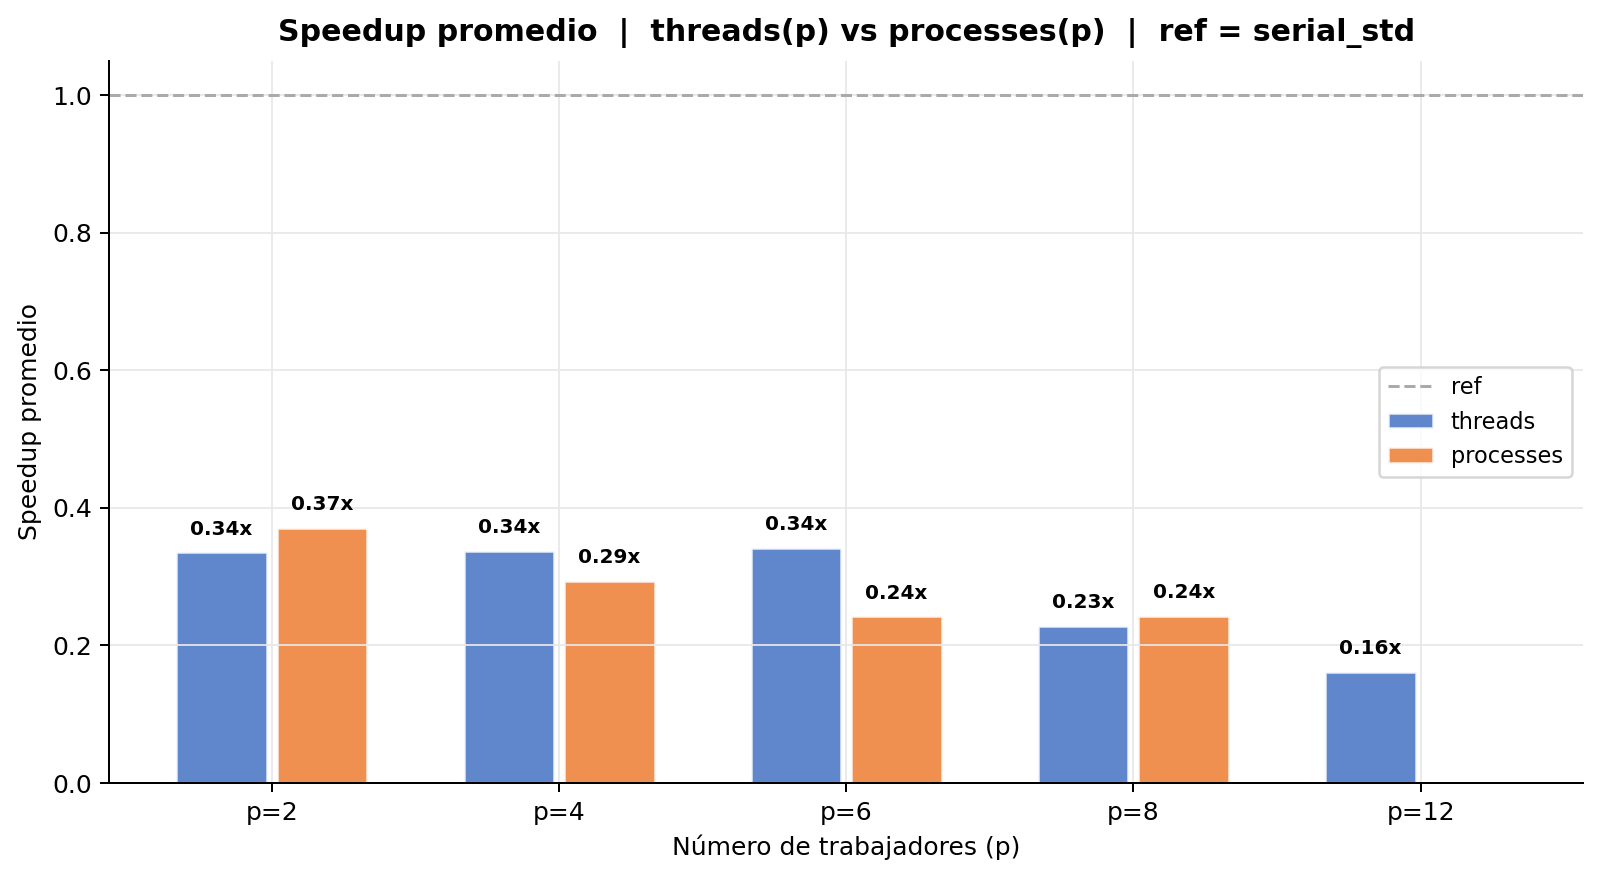
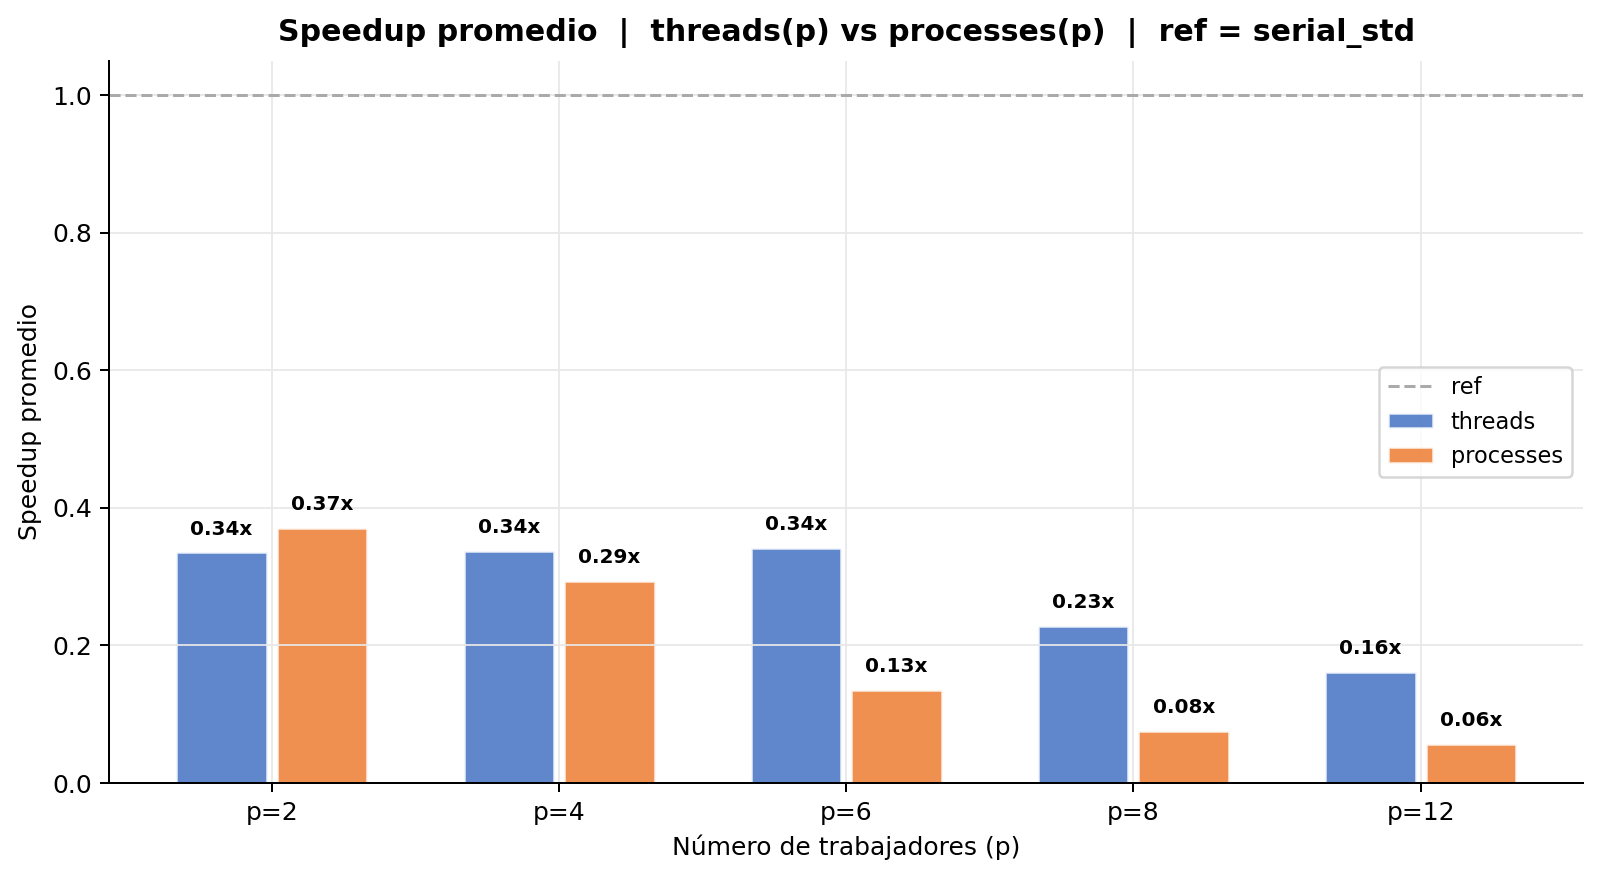
Updated documentation with new results and graphs for sequential, thread-parallelized, and process algorithms.

Changed region(s): [[0.6871, 0.6458, 0.7808, 0.861], [0.5309, 0.6458, 0.5934, 0.7995], [0.8745, 0.7995, 0.9681, 0.8918]]

diff --git a/docs/caps/test/processes.tex b/docs/caps/test/processes.tex
@@ -5,23 +5,58 @@
 
 Para esta implementación se utilizó la biblioteca de procesos POSIX (fork) para crear múltiples procesos que ejecutan el algoritmo de Jacobi en paralelo. Cada proceso se encarga de procesar una parte del arreglo, lo que permite aprovechar la capacidad de procesamiento de múltiples núcleos del CPU. Se realizaron pruebas con diferentes números de procesos (2, 4, 6, 8 y 12) alienados a las pruebas con hilos realizadas para evaluar el impacto en el rendimiento. Estos fueron los resultados obtenidos:
 
-\begin{table}
+\begin{table}[H]
    \centering
-   \includegraphics{images/tables/processes_time.png}
+   \includegraphics[width=1\textwidth]{images/tables/processes2_time.png}
    \caption{Resultados del algoritmo paralelizado por procesos}
-   \label{tab:processes}
+   \label{tab:processes2}
 \end{table}
 
-\begin{table}
+\begin{table}[H]
+   \centering
+   \includegraphics[width=1\textwidth]{images/tables/processes4_time.png}
+   \caption{Resultados del algoritmo paralelizado por procesos}
+   \label{tab:processes4}
+\end{table}
+
+\begin{table}[H]
+   \centering
+   \includegraphics[width=1\textwidth]{images/tables/processes6_time.png}
+   \caption{Resultados del algoritmo paralelizado por procesos}
+   \label{tab:processes6}
+\end{table}
+
+\begin{table}[H]
+   \centering
+   \includegraphics[width=1\textwidth]{images/tables/processes8_time.png}
+   \caption{Resultados del algoritmo paralelizado por procesos}
+   \label{tab:processes8}
+\end{table}
+
+\begin{table}[H]
+   \centering
+   \includegraphics[width=1\textwidth]{images/tables/processes12_time.png}
+   \caption{Resultados del algoritmo paralelizado por procesos}
+   \label{tab:processes12}
+\end{table}
+\begin{table}[H]
    \centering
    \includegraphics[width=1\textwidth]{images/tables/processes_speedup.png}
    \caption{Speedup del algoritmo paralelizado por procesos}
    \label{tab:processes_speedup}
 \end{table}
 
-\begin{figure}
+\begin{figure}[H]
    \centering
    \includegraphics[width=1\textwidth]{images/charts/processes_sp.png}
    \caption{Comparación del speedup entre el algoritmo secuencial y el algoritmo paralelizado por procesos}
    \label{fig:chart_processes_speedup}
 \end{figure}
+
+Para esta prueba se puede observar que para $p \geq 6$ no fue posible obtener resultados para $n = 2000$ en un tiempo razonable.
+
+Cuando se ejecutan 6 procesos en una máquina de 6 núcleos, todos los núcleos quedan completamente ocupados. El problema es que en cada iteración del algoritmo, el proceso coordinador necesita despertar a los demás procesos mediante semáforos. Despertar un proceso en el sistema operativo tiene un costo, y ese costo se multiplica cuando no hay núcleos disponibles: el sistema operativo debe interrumpir forzosamente a uno de los procesos en ejecución para cederle el turno al proceso recién despertado. Esta operación ocurre 5 veces por iteración, y para n = 2000 el algoritmo requiere aproximadamente 12 millones de iteraciones para converger, lo que hace que el overhead acumulado de sincronización supere la hora de ejecución por repetición.
+
+La implementación con hilos no presenta este problema porque los hilos pertenecen al mismo proceso y el sistema operativo los gestiona de forma más ligera, sin necesidad de interrumpir otros núcleos para sincronizarlos. Esto se confirma en los datos: con p = 6 y n = 2000, la versión con hilos completó en aproximadamente 141 segundos, mientras que la versión con procesos no logró terminar en más de una hora de ejecución.
+
+Por esta razón, los resultados de la suite de procesos para $p \geq 6$ se reportan únicamente hasta n = 1000.

diff --git a/docs/caps/test/threads.tex b/docs/caps/test/threads.tex
@@ -5,11 +5,39 @@
 
 Para esta implementación se utilizó la biblioteca de hilos POSIX (pthreads) para crear múltiples hilos que ejecutan el algoritmo de Jacobi en paralelo. Cada hilo se encarga de procesar una parte del arreglo, lo que permite aprovechar la capacidad de procesamiento de múltiples núcleos del CPU. Se realizaron pruebas con diferentes números de hilos (2, 4, 6, 8 y 12) para evaluar el impacto en el rendimiento. Estos fueron los resultados obtenidos:
 
-\begin{table}
+\begin{table}[H]
    \centering
-   \includegraphics{images/tables/threads_time.png}
+   \includegraphics[width=1\textwidth]{images/tables/threads2_time.png}
    \caption{Resultados del algoritmo paralelizado con hilos}
-   \label{tab:threads}
+   \label{tab:threads2}
+\end{table}
+
+\begin{table}[H]
+   \centering
+   \includegraphics[width=1\textwidth]{images/tables/threads4_time.png}
+   \caption{Resultados del algoritmo paralelizado con hilos}
+   \label{tab:threads4}
+\end{table}
+
+\begin{table}[H]
+   \centering
+   \includegraphics[width=1\textwidth]{images/tables/threads6_time.png}
+   \caption{Resultados del algoritmo paralelizado con hilos}
+   \label{tab:threads6}
+\end{table}
+
+\begin{table}[H]
+   \centering
+   \includegraphics[width=1\textwidth]{images/tables/threads8_time.png}
+   \caption{Resultados del algoritmo paralelizado con hilos}
+   \label{tab:threads8}
+\end{table}
+
+\begin{table}[H]
+   \centering
+   \includegraphics[width=1\textwidth]{images/tables/threads12_time.png}
+   \caption{Resultados del algoritmo paralelizado con hilos}
+   \label{tab:threads12}
 \end{table}
 
 \begin{table}[H]
@@ -18,6 +46,13 @@ Para esta implementación se utilizó la biblioteca de hilos POSIX (pthreads) pa
    \caption{Speedup del algoritmo paralelizado con hilos}
    \label{tab:threads_speedup}
 \end{table}
+
+\begin{figure}[H]
+   \centering
+   \includegraphics[width=1\textwidth]{images/charts/threads_time.png}
+   \caption{Comparación del tiempo de ejecución entre el algoritmo secuencial y el algoritmo paralelizado con hilos}
+   \label{fig:chart_threads_time}
+\end{figure}
 
 \begin{figure}[H]
    \centering

diff --git a/docs/caps/test/compiler.tex b/docs/caps/test/compiler.tex
@@ -21,16 +21,24 @@ Se realizaron las pruebas para el algoritmo secuencia optimizado por compilador 
 
 \begin{table}
    \centering
-   \includegraphics{images/tables/compiler_time.png}
+   \includegraphics[width=1\textwidth]{images/tables/compiler_time.png}
    \caption{Resultados del algoritmo secuencial optimizado por compilador}
    \label{tab:compiler}
 \end{table}
 
 \begin{table}[H]
    \centering
-   \includegraphics[width=1\textwidth]{images/charts/compiler_sp.png}
-   \caption{Comparación del speedup entre el algoritmo secuencial y el algoritmo secuencial optimizado por compilador}
+   \includegraphics[width=1\textwidth]{images/tables/serial_speedup.png}
+   \caption{Speedup del algoritmo secuencial optimizado por compilador}
    \label{tab:compiler_speedup}
+\end{table}
+
+
+\begin{table}[H]
+   \centering
+   \includegraphics[width=1\textwidth]{images/charts/compiler_time.png}
+   \caption{Comparación del tiempo de ejecución entre el algoritmo secuencial y el algoritmo secuencial optimizado por compilador}
+   \label{tab:compiler_time}
 \end{table}
 
 \begin{figure}[H]

diff --git a/docs/caps/test/cache.tex b/docs/caps/test/cache.tex
@@ -4,17 +4,24 @@ Se realizaron las pruebas para el algoritmo secuencial optimizado por cache line
 
 \begin{table}[H]
    \centering
-   \includegraphics[width=1\textwidth]{images/tables/cache_std.png}
+   \includegraphics[width=1\textwidth]{images/tables/cache_time.png}
    \caption{Resultados del algoritmo secuencial optimizado por cache line}
    \label{tab:cache}
 \end{table}
 
 \begin{table}[H]
    \centering
-   \includegraphics[width=1\textwidth]{images/tables/cache_speedup.png}
+   \includegraphics[width=1\textwidth]{images/tables/serial_speedup.png}
    \caption{Speedup del algoritmo secuencial optimizado por cache line}
    \label{tab:cache_speedup}
 \end{table}
+
+\begin{figure}[H]
+   \centering
+   \includegraphics[width=1\textwidth]{images/charts/cache_time.png}
+   \caption{Comparación del tiempo de ejecución entre el algoritmo secuencial y el algoritmo secuencial optimizado por cache line}
+   \label{fig:chart_cache_time}
+\end{figure}
 
 \begin{figure}[H]
    \centering

diff --git a/docs/caps/test/serial.tex b/docs/caps/test/serial.tex
@@ -1,10 +1,10 @@
-\subsection{Pruebas del algoritmo secuencial}
+\subsection{Resultados del algoritmo secuencial}
 
-Se realizaron las pruebas para el algoritmo secuencia y estos fueron los resultados obtenidos:
+Se realizaron las pruebas para el algoritmo secuencial y estos fueron los resultados obtenidos:
 
 \begin{table}[H]
    \centering
-   \includegraphics{images/tables/serial_std.png}
+   \includegraphics[width=1\textwidth]{images/tables/secuencial_time.png}
    \caption{Resultados del algoritmo secuencial}
    \label{tab:serial}
 \end{table}
